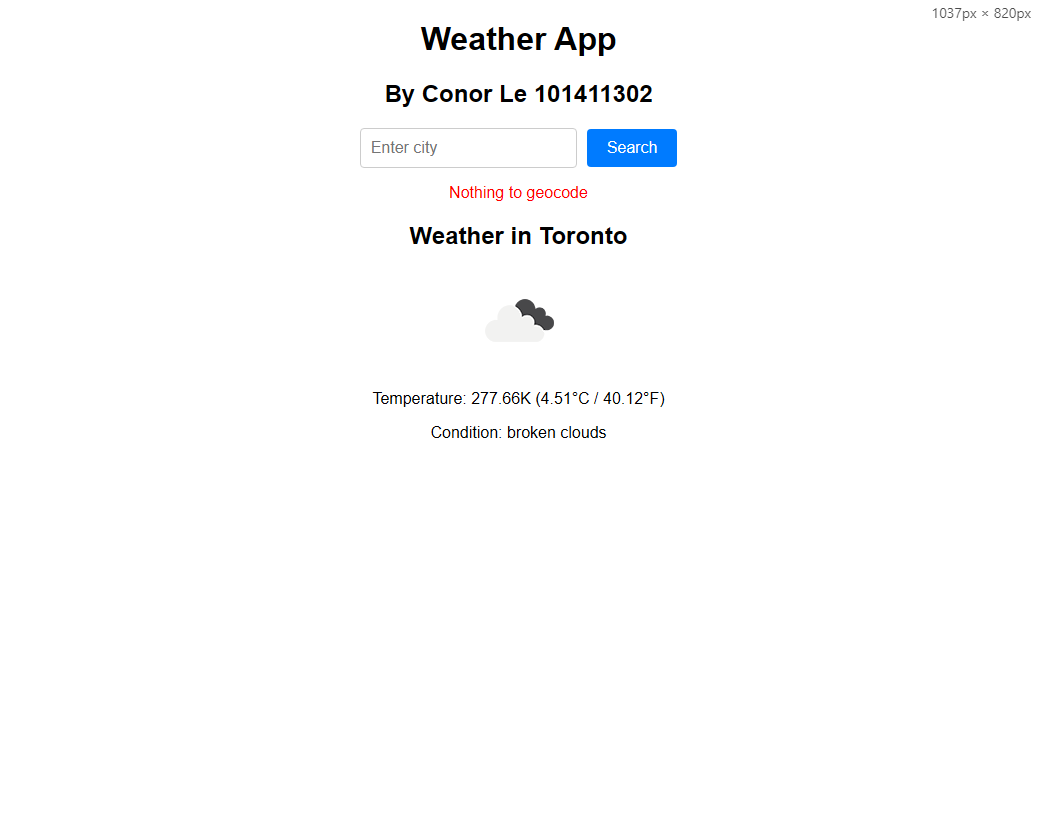
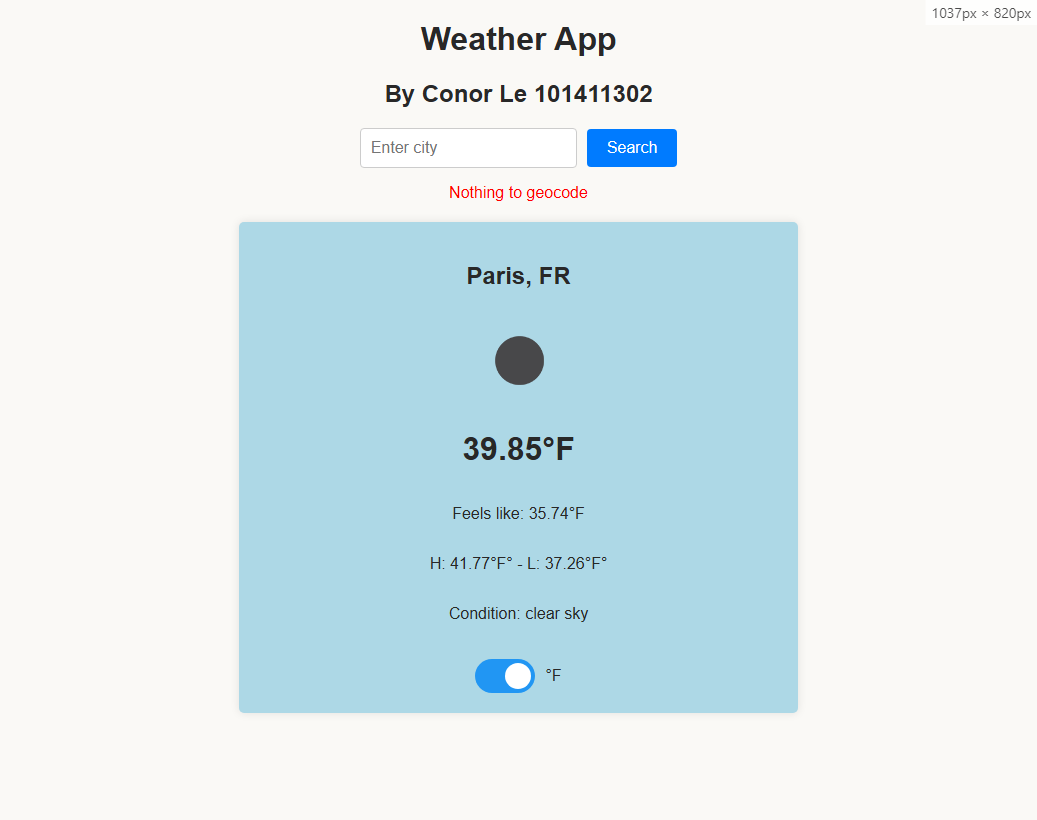
improve UI and add to change display degree mode

diff --git a/src/WeatherDisplay.js b/src/WeatherDisplay.js
@@ -1,18 +1,49 @@
-import React from "react";
+import React, { useState } from "react";
+import "./App.css";
 
-function WeatherDisplay({ weatherData, kelvinToCelsius, kelvinToFahrenheit }) {
-  const { name, main, weather } = weatherData;
+function WeatherDisplay({ weatherData }) {
+  const [unit, setUnit] = useState("C"); // State to keep track of the current unit
+
+  const kelvinToCelsius = (kelvin) => {
+    return (kelvin - 273.15).toFixed(2);
+  };
+
+  const kelvinToFahrenheit = (kelvin) => {
+    return (((kelvin - 273.15) * 9) / 5 + 32).toFixed(2);
+  };
+
+  const { name, main, sys, weather } = weatherData;
   const iconUrl = `http://openweathermap.org/img/wn/${weather[0].icon}@2x.png`;
 
+  const toggleUnit = () => {
+    setUnit(unit === "C" ? "F" : "C");
+  };
+
+  const displayTemp = (kelvin) => {
+    return unit === "C"
+      ? `${kelvinToCelsius(kelvin)}°C`
+      : `${kelvinToFahrenheit(kelvin)}°F`;
+  };
+
   return (
-    <div>
-      <h2>Weather in {name}</h2>
+    <div className="container">
+      <h2>
+        {name}, {sys.country}
+      </h2>
       <img src={iconUrl} alt={weather[0].description} />
+      <h1>{displayTemp(main.temp)}</h1>
+      <p>Feels like: {displayTemp(main.feels_like)}</p>
       <p>
-        Temperature: {main.temp}K ({kelvinToCelsius(main.temp)}°C /{" "}
-        {kelvinToFahrenheit(main.temp)}°F)
+        H: {displayTemp(main.temp_max)}° - L: {displayTemp(main.temp_min)}°
       </p>
       <p>Condition: {weather[0].description}</p>
+      <div className="switch-container">
+        <label className="switch">
+          <input type="checkbox" onChange={toggleUnit} checked={unit === "F"} />
+          <span className="slider round"></span>
+        </label>
+        <span>{unit === "F" ? "°F" : "°C"}</span>
+      </div>
     </div>
   );
 }

diff --git a/src/App.css b/src/App.css
@@ -1,3 +1,7 @@
+body {
+  background-color: #FAF9F6;
+  color: #282828;
+}
 .App {
   text-align: center;
   font-family: Arial, sans-serif;
@@ -15,4 +19,77 @@ button {
 img {
   width: 100px;
   height: 100px;
+}
+
+.container {
+  display: flex;
+  justify-content: center;
+  align-items: center;
+  flex-direction: column;
+  width: 50%;
+  background-color: #ADD8E6;
+  margin: 20px auto;
+  padding: 20px;
+  box-shadow: 0 0 10px rgba(0, 0, 0, 0.1);
+  border-radius: 5px;
+}
+
+.switch-container {
+  display: flex;
+  align-items: center;
+  margin-top: 20px;
+}
+
+.switch {
+  position: relative;
+  display: inline-block;
+  width: 60px;
+  height: 34px;
+  margin-right: 10px;
+}
+
+.switch input {
+  opacity: 0;
+  width: 0;
+  height: 0;
+}
+
+.slider {
+  position: absolute;
+  cursor: pointer;
+  top: 0;
+  left: 0;
+  right: 0;
+  bottom: 0;
+  background-color: #ccc;
+  transition: 0.4s;
+  border-radius: 34px;
+}
+
+.slider:before {
+  position: absolute;
+  content: "";
+  height: 26px;
+  width: 26px;
+  left: 4px;
+  bottom: 4px;
+  background-color: white;
+  transition: 0.4s;
+  border-radius: 50%;
+}
+
+input:checked + .slider {
+  background-color: #2196f3;
+}
+
+input:checked + .slider:before {
+  transform: translateX(26px);
+}
+
+.slider.round {
+  border-radius: 34px;
+}
+
+.slider.round:before {
+  border-radius: 50%;
 }

diff --git a/src/App.js b/src/App.js
@@ -34,14 +34,6 @@ function App() {
       });
   };
 
-  const kelvinToCelsius = (kelvin) => {
-    return (kelvin - 273.15).toFixed(2);
-  };
-
-  const kelvinToFahrenheit = (kelvin) => {
-    return (((kelvin - 273.15) * 9) / 5 + 32).toFixed(2);
-  };
-
   return (
     <div className="App">
       <h1>Weather App</h1>
@@ -51,8 +43,6 @@ function App() {
       {weatherData && (
         <WeatherDisplay
           weatherData={weatherData}
-          kelvinToCelsius={kelvinToCelsius}
-          kelvinToFahrenheit={kelvinToFahrenheit}
         />
       )}
     </div>

diff --git a/README.md b/README.md
@@ -12,5 +12,8 @@
 ### Submit An Invalid Search
 ![Submit An Invalid Search](./Screenshot/Invalid_Loc.png)
 
+### Change To Celsius
+![Change To Celsius](./Screenshot/To_Celsius.png)
+
 ### Postman Test
 ![Postman Test](./Screenshot/Postman.png)
